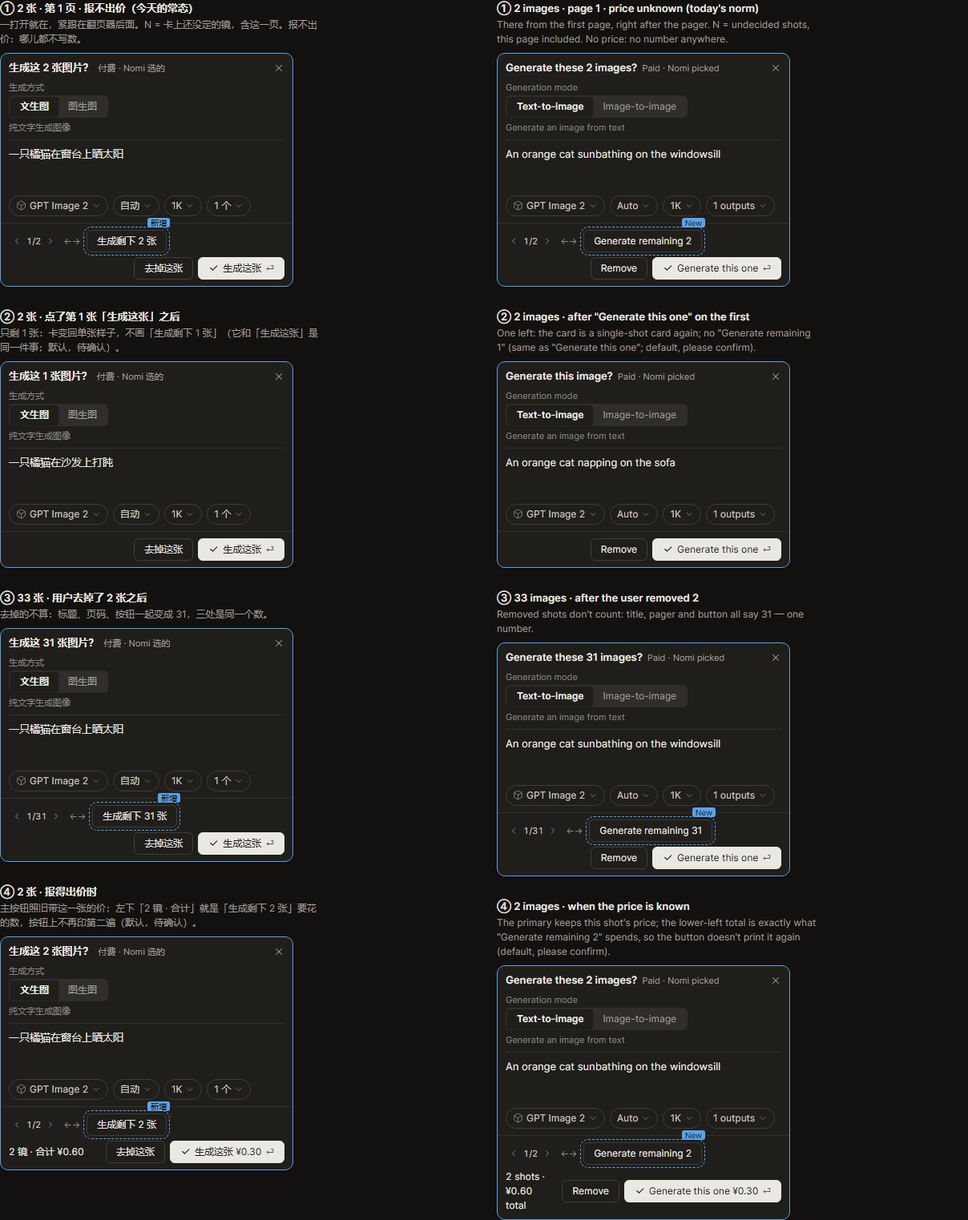
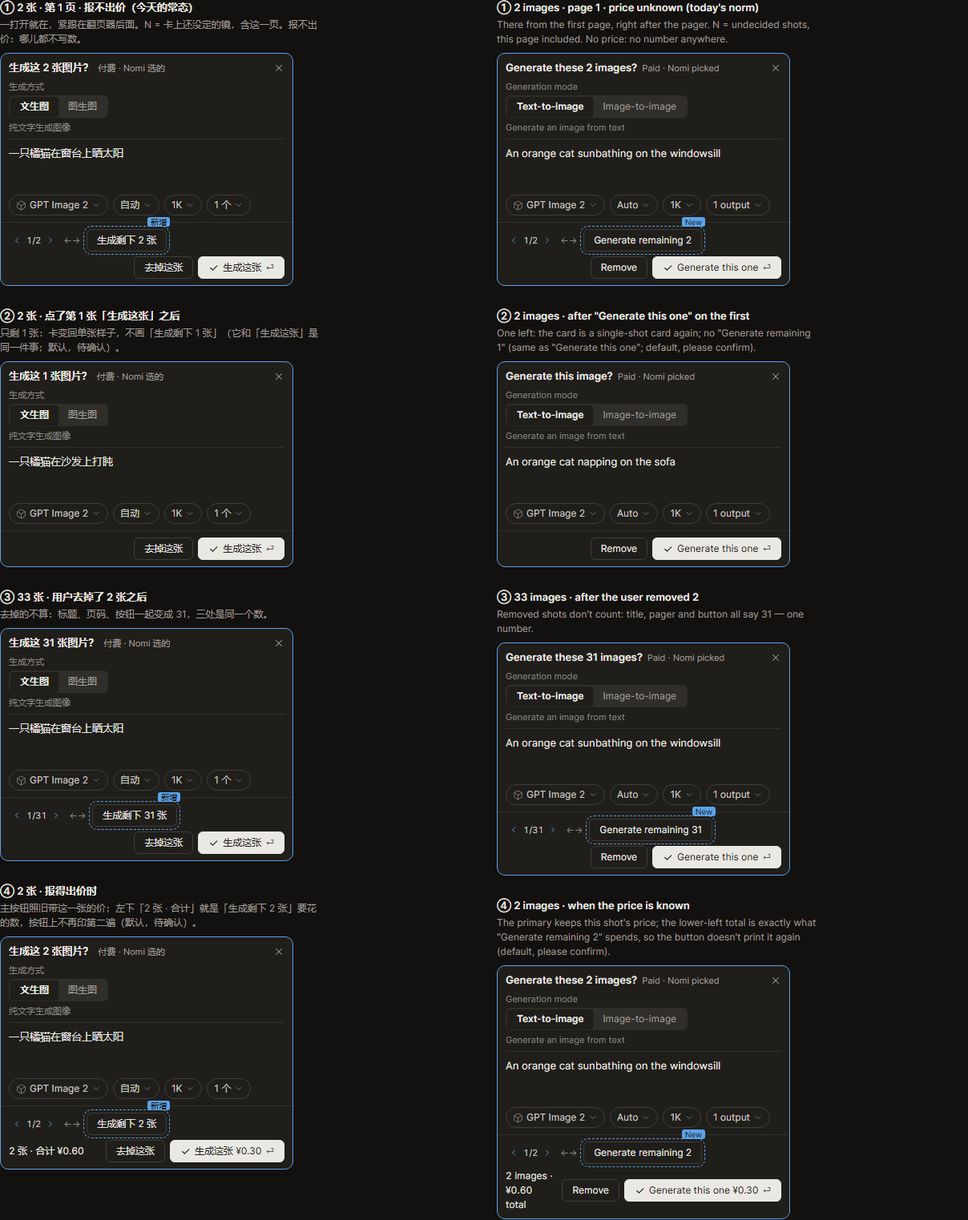
feat(paid card): "needs your go-ahead again" chip; neutral stop for old runs; total line uses the title's noun
- Canvas chip: consent_expired says "This shot hasn't started - it needs your go-ahead
  again." with Continue (the click is the confirmation); old runs stopped with the removed
  budget reason read as a neutral "Stopped - this shot hasn't started." with Continue.
  The budget copy and the "Raise budget" action are gone.
- Paid card total line: "2 images · ¥0.60 total" / "2 张 · 合计" (video: 段 / video shots),
  read from the same orderWording as the title and "Generate remaining" (user decision
  2026-10-01); mockup texts and previews updated.
- Walks: card close-ups are taken with the pointer off the buttons (the one-left primary
  was captured in its hover colour); the full-walk monitor recognises the new stop copy;
  the generate-remaining walk no longer builds its draft with an object literal the
  tool-args gate reads as a key.

diff --git a/docs/design/mockups/2026-10-01-paid-card-generate-remaining/index.html b/docs/design/mockups/2026-10-01-paid-card-generate-remaining/index.html
@@ -376,7 +376,7 @@ th { background: var(--nomi-ink-05); color: var(--nomi-ink); }
       </div>
     </footer>
   </section></figure>
-<figure class="board"><figcaption><b>④ 2 张 · 报得出价时</b><span>主按钮照旧带这一张的价；左下「2 镜 · 合计」就是「生成剩下 2 张」要花的数，按钮上不再印第二遍（默认，待确认）。</span></figcaption>
+<figure class="board"><figcaption><b>④ 2 张 · 报得出价时</b><span>主按钮照旧带这一张的价；左下「2 张 · 合计」就是「生成剩下 2 张」要花的数，按钮上不再印第二遍（默认，待确认）。</span></figcaption>
   <section class="card" lang="zh-CN">
     <div class="head">
       <span class="title" contenteditable="true">生成这 2 张图片？</span>
@@ -406,7 +406,7 @@ th { background: var(--nomi-ink-05); color: var(--nomi-ink); }
         <span class="new-wrap"><span class="new-tag">新增</span><button class="btn" type="button" contenteditable="true">生成剩下 2 张</button></span>
       </div>
       <div class="row">
-        <span class="lead" contenteditable="true">2 镜 · 合计 ¥0.60</span>
+        <span class="lead" contenteditable="true">2 张 · 合计 ¥0.60</span>
         <span class="grow"></span>
         <button class="btn" type="button" contenteditable="true">去掉这张</button>
         <button class="btn primary" type="button"><svg class="ti " width="13" height="13" viewBox="0 0 24 24" fill="none" stroke="currentColor" stroke-width="2" stroke-linecap="round" stroke-linejoin="round" aria-hidden="true"><path d="M5 12l5 5l10 -10"/></svg><span contenteditable="true">生成这张 ¥0.30</span><span class="enter">⏎</span></button>
@@ -430,7 +430,7 @@ th { background: var(--nomi-ink-05); color: var(--nomi-ink); }
         <span class="chip"><svg class="ti " width="13" height="13" viewBox="0 0 24 24" fill="none" stroke="currentColor" stroke-width="1.6" stroke-linecap="round" stroke-linejoin="round" aria-hidden="true"><path d="M21 16.008v-8.018a1.98 1.98 0 0 0 -1 -1.717l-7 -4.008a2.016 2.016 0 0 0 -2 0l-7 4.008c-.619 .355 -1 1.01 -1 1.718v8.018c0 .709 .381 1.363 1 1.717l7 4.008a2.016 2.016 0 0 0 2 0l7 -4.008c.619 -.355 1 -1.01 1 -1.718"/><path d="M12 22v-10"/><path d="M12 12l8.73 -5.04"/><path d="M3.27 6.96l8.73 5.04"/></svg><span contenteditable="true">GPT Image 2</span><svg class="ti " width="12" height="12" viewBox="0 0 24 24" fill="none" stroke="currentColor" stroke-width="1.6" stroke-linecap="round" stroke-linejoin="round" aria-hidden="true"><path d="M6 9l6 6l6 -6"/></svg></span>
         <span class="chip"><span contenteditable="true">Auto</span><svg class="ti " width="12" height="12" viewBox="0 0 24 24" fill="none" stroke="currentColor" stroke-width="1.6" stroke-linecap="round" stroke-linejoin="round" aria-hidden="true"><path d="M6 9l6 6l6 -6"/></svg></span>
         <span class="chip"><span contenteditable="true">1K</span><svg class="ti " width="12" height="12" viewBox="0 0 24 24" fill="none" stroke="currentColor" stroke-width="1.6" stroke-linecap="round" stroke-linejoin="round" aria-hidden="true"><path d="M6 9l6 6l6 -6"/></svg></span>
-        <span class="chip"><span contenteditable="true">1 outputs</span><svg class="ti " width="12" height="12" viewBox="0 0 24 24" fill="none" stroke="currentColor" stroke-width="1.6" stroke-linecap="round" stroke-linejoin="round" aria-hidden="true"><path d="M6 9l6 6l6 -6"/></svg></span>
+        <span class="chip"><span contenteditable="true">1 output</span><svg class="ti " width="12" height="12" viewBox="0 0 24 24" fill="none" stroke="currentColor" stroke-width="1.6" stroke-linecap="round" stroke-linejoin="round" aria-hidden="true"><path d="M6 9l6 6l6 -6"/></svg></span>
       </div>
     </div>
     <footer class="foot">
@@ -467,7 +467,7 @@ th { background: var(--nomi-ink-05); color: var(--nomi-ink); }
         <span class="chip"><svg class="ti " width="13" height="13" viewBox="0 0 24 24" fill="none" stroke="currentColor" stroke-width="1.6" stroke-linecap="round" stroke-linejoin="round" aria-hidden="true"><path d="M21 16.008v-8.018a1.98 1.98 0 0 0 -1 -1.717l-7 -4.008a2.016 2.016 0 0 0 -2 0l-7 4.008c-.619 .355 -1 1.01 -1 1.718v8.018c0 .709 .381 1.363 1 1.717l7 4.008a2.016 2.016 0 0 0 2 0l7 -4.008c.619 -.355 1 -1.01 1 -1.718"/><path d="M12 22v-10"/><path d="M12 12l8.73 -5.04"/><path d="M3.27 6.96l8.73 5.04"/></svg><span contenteditable="true">GPT Image 2</span><svg class="ti " width="12" height="12" viewBox="0 0 24 24" fill="none" stroke="currentColor" stroke-width="1.6" stroke-linecap="round" stroke-linejoin="round" aria-hidden="true"><path d="M6 9l6 6l6 -6"/></svg></span>
         <span class="chip"><span contenteditable="true">Auto</span><svg class="ti " width="12" height="12" viewBox="0 0 24 24" fill="none" stroke="currentColor" stroke-width="1.6" stroke-linecap="round" stroke-linejoin="round" aria-hidden="true"><path d="M6 9l6 6l6 -6"/></svg></span>
         <span class="chip"><span contenteditable="true">1K</span><svg class="ti " width="12" height="12" viewBox="0 0 24 24" fill="none" stroke="currentColor" stroke-width="1.6" stroke-linecap="round" stroke-linejoin="round" aria-hidden="true"><path d="M6 9l6 6l6 -6"/></svg></span>
-        <span class="chip"><span contenteditable="true">1 outputs</span><svg class="ti " width="12" height="12" viewBox="0 0 24 24" fill="none" stroke="currentColor" stroke-width="1.6" stroke-linecap="round" stroke-linejoin="round" aria-hidden="true"><path d="M6 9l6 6l6 -6"/></svg></span>
+        <span class="chip"><span contenteditable="true">1 output</span><svg class="ti " width="12" height="12" viewBox="0 0 24 24" fill="none" stroke="currentColor" stroke-width="1.6" stroke-linecap="round" stroke-linejoin="round" aria-hidden="true"><path d="M6 9l6 6l6 -6"/></svg></span>
       </div>
     </div>
     <footer class="foot">
@@ -497,7 +497,7 @@ th { background: var(--nomi-ink-05); color: var(--nomi-ink); }
         <span class="chip"><svg class="ti " width="13" height="13" viewBox="0 0 24 24" fill="none" stroke="currentColor" stroke-width="1.6" stroke-linecap="round" stroke-linejoin="round" aria-hidden="true"><path d="M21 16.008v-8.018a1.98 1.98 0 0 0 -1 -1.717l-7 -4.008a2.016 2.016 0 0 0 -2 0l-7 4.008c-.619 .355 -1 1.01 -1 1.718v8.018c0 .709 .381 1.363 1 1.717l7 4.008a2.016 2.016 0 0 0 2 0l7 -4.008c.619 -.355 1 -1.01 1 -1.718"/><path d="M12 22v-10"/><path d="M12 12l8.73 -5.04"/><path d="M3.27 6.96l8.73 5.04"/></svg><span contenteditable="true">GPT Image 2</span><svg class="ti " width="12" height="12" viewBox="0 0 24 24" fill="none" stroke="currentColor" stroke-width="1.6" stroke-linecap="round" stroke-linejoin="round" aria-hidden="true"><path d="M6 9l6 6l6 -6"/></svg></span>
         <span class="chip"><span contenteditable="true">Auto</span><svg class="ti " width="12" height="12" viewBox="0 0 24 24" fill="none" stroke="currentColor" stroke-width="1.6" stroke-linecap="round" stroke-linejoin="round" aria-hidden="true"><path d="M6 9l6 6l6 -6"/></svg></span>
         <span class="chip"><span contenteditable="true">1K</span><svg class="ti " width="12" height="12" viewBox="0 0 24 24" fill="none" stroke="currentColor" stroke-width="1.6" stroke-linecap="round" stroke-linejoin="round" aria-hidden="true"><path d="M6 9l6 6l6 -6"/></svg></span>
-        <span class="chip"><span contenteditable="true">1 outputs</span><svg class="ti " width="12" height="12" viewBox="0 0 24 24" fill="none" stroke="currentColor" stroke-width="1.6" stroke-linecap="round" stroke-linejoin="round" aria-hidden="true"><path d="M6 9l6 6l6 -6"/></svg></span>
+        <span class="chip"><span contenteditable="true">1 output</span><svg class="ti " width="12" height="12" viewBox="0 0 24 24" fill="none" stroke="currentColor" stroke-width="1.6" stroke-linecap="round" stroke-linejoin="round" aria-hidden="true"><path d="M6 9l6 6l6 -6"/></svg></span>
       </div>
     </div>
     <footer class="foot">
@@ -534,7 +534,7 @@ th { background: var(--nomi-ink-05); color: var(--nomi-ink); }
         <span class="chip"><svg class="ti " width="13" height="13" viewBox="0 0 24 24" fill="none" stroke="currentColor" stroke-width="1.6" stroke-linecap="round" stroke-linejoin="round" aria-hidden="true"><path d="M21 16.008v-8.018a1.98 1.98 0 0 0 -1 -1.717l-7 -4.008a2.016 2.016 0 0 0 -2 0l-7 4.008c-.619 .355 -1 1.01 -1 1.718v8.018c0 .709 .381 1.363 1 1.717l7 4.008a2.016 2.016 0 0 0 2 0l7 -4.008c.619 -.355 1 -1.01 1 -1.718"/><path d="M12 22v-10"/><path d="M12 12l8.73 -5.04"/><path d="M3.27 6.96l8.73 5.04"/></svg><span contenteditable="true">GPT Image 2</span><svg class="ti " width="12" height="12" viewBox="0 0 24 24" fill="none" stroke="currentColor" stroke-width="1.6" stroke-linecap="round" stroke-linejoin="round" aria-hidden="true"><path d="M6 9l6 6l6 -6"/></svg></span>
         <span class="chip"><span contenteditable="true">Auto</span><svg class="ti " width="12" height="12" viewBox="0 0 24 24" fill="none" stroke="currentColor" stroke-width="1.6" stroke-linecap="round" stroke-linejoin="round" aria-hidden="true"><path d="M6 9l6 6l6 -6"/></svg></span>
         <span class="chip"><span contenteditable="true">1K</span><svg class="ti " width="12" height="12" viewBox="0 0 24 24" fill="none" stroke="currentColor" stroke-width="1.6" stroke-linecap="round" stroke-linejoin="round" aria-hidden="true"><path d="M6 9l6 6l6 -6"/></svg></span>
-        <span class="chip"><span contenteditable="true">1 outputs</span><svg class="ti " width="12" height="12" viewBox="0 0 24 24" fill="none" stroke="currentColor" stroke-width="1.6" stroke-linecap="round" stroke-linejoin="round" aria-hidden="true"><path d="M6 9l6 6l6 -6"/></svg></span>
+        <span class="chip"><span contenteditable="true">1 output</span><svg class="ti " width="12" height="12" viewBox="0 0 24 24" fill="none" stroke="currentColor" stroke-width="1.6" stroke-linecap="round" stroke-linejoin="round" aria-hidden="true"><path d="M6 9l6 6l6 -6"/></svg></span>
       </div>
     </div>
     <footer class="foot">
@@ -547,7 +547,7 @@ th { background: var(--nomi-ink-05); color: var(--nomi-ink); }
         <span class="new-wrap"><span class="new-tag">New</span><button class="btn" type="button" contenteditable="true">Generate remaining 2</button></span>
       </div>
       <div class="row">
-        <span class="lead" contenteditable="true">2 shots · ¥0.60 total</span>
+        <span class="lead" contenteditable="true">2 images · ¥0.60 total</span>
         <span class="grow"></span>
         <button class="btn" type="button" contenteditable="true">Remove</button>
         <button class="btn primary" type="button"><svg class="ti " width="13" height="13" viewBox="0 0 24 24" fill="none" stroke="currentColor" stroke-width="2" stroke-linecap="round" stroke-linejoin="round" aria-hidden="true"><path d="M5 12l5 5l10 -10"/></svg><span contenteditable="true">Generate this one ¥0.30</span><span class="enter">⏎</span></button>
@@ -576,7 +576,7 @@ th { background: var(--nomi-ink-05); color: var(--nomi-ink); }
   <div class="table-wrap"><table>
     <tr><th>问题</th><th>默认（样张就是这么画的）</th><th>另一种</th></tr>
     <tr><td>只剩 1 张时，还显示「生成剩下 1 张」吗？</td><td>不显示：它和「生成这张」是同一件事，两颗按钮做一件事让人犹豫该点哪颗</td><td>照样显示，位置不跳</td></tr>
-    <tr><td>报得出价时，「生成剩下 N 张」上带不带合计？</td><td>不带：左下「N 镜 · 合计」就是这几张的合计，同一个数印两处，改参数时总有一处先漂</td><td>带上合计，左下那句删掉</td></tr>
+    <tr><td>报得出价时，「生成剩下 N 张」上带不带合计？</td><td>不带：左下「N 张 · 合计」就是这几张的合计，同一个数印两处，改参数时总有一处先漂</td><td>带上合计，左下那句删掉</td></tr>
     <tr><td>一张卡里图和视频都有时，按钮说张还是段？</td><td>跟标题同一条规则：有视频就说「段」（标题今天也这么说）</td><td>标题和按钮都改说「镜」（「生成这 3 镜？」「生成剩下 3 镜」）</td></tr>
   </table></div>
 

diff --git a/src/workbench/generationCanvas/nodes/ProductionShotPlaceholder.tsx b/src/workbench/generationCanvas/nodes/ProductionShotPlaceholder.tsx
@@ -9,10 +9,12 @@
 // 排队中 / 已停没有普通生成的对应物，所以留在这里；判定读中立层 `deriveProductionShotState`（与主进程投影
 // 同一个函数，两端不会一个说在生成、一个说已停）。节点已有结果或自己在跑（普通生成 / 制作投影的生成中）时不画。
 //
-// 状态色一律根层 token（#128 后）：已停 = --nomi-warning（非 danger，预算/急停是可继续的中止，不是错误）。
+// 状态色一律根层 token（#128 后）：已停 = --nomi-warning（非 danger，等你再确认 / 急停是可继续的中止，不是错误）。
 //
 // 已停时说哪句话、给不给「继续」按钮，只看 Run 在停下那一刻记下的原因（stoppedReason，2026-09-29）：以前一律从
-// needs_attention 猜成「预算已用完 · 提额续拍」，今天没有价格，点进去额度全是 0。
+// needs_attention 猜成预算用完，今天没有价格，点进去额度全是 0。2026-10-01 起停下原因里没有「预算」了：
+// 上一版记成预算的旧数据读出来是中性的「已停」（unknown）；批过的镜离用户上一次点头太久、没人续，停在
+// consent_expired，说「这镜还没开拍，需要你再确认一次」，那颗「继续」就是确认（付费卡① 第 13 条）。
 import React, { type JSX } from 'react'
 import { useTranslation } from 'react-i18next'
 import { IconClock, IconPlayerPause } from '@tabler/icons-react'
@@ -28,14 +30,14 @@ import type { TranslationKey } from '../../../i18n/translationKey'
 type StoppedCopy = {
   message: TranslationKey
   /** 这一种停法下「继续」有没有用：没用就不摆按钮（选中节点单独生成 / 去任务面板，文案里说清）。 */
-  action: { label: TranslationKey; kind: 'resume-budget' | 'resume-manual' } | null
+  action: { label: TranslationKey; kind: 'resume-consent' | 'resume-manual' } | null
 }
 
 /** 停下的原因 → 这一镜上说的话与能做的事。穷尽：新长一个原因而这里没表态，编译就过不去。 */
 function stoppedCopyOf(reason: Extract<ProductionShotState, { phase: 'stopped' }>['stoppedReason']): StoppedCopy {
   switch (reason) {
-    case 'budget':
-      return { message: 'generationCommon.production.canvasLanding.stoppedBudget', action: { label: 'generationCommon.production.canvasLanding.raiseBudget', kind: 'resume-budget' } }
+    case 'consent_expired':
+      return { message: 'generationCommon.production.canvasLanding.stoppedConsentExpired', action: { label: 'generationCommon.production.canvasLanding.resume', kind: 'resume-consent' } }
     case 'user_paused':
       return { message: 'generationCommon.production.canvasLanding.stoppedManual', action: { label: 'generationCommon.production.canvasLanding.continueRemaining', kind: 'resume-manual' } }
     case 'failed':
@@ -45,7 +47,7 @@ function stoppedCopyOf(reason: Extract<ProductionShotState, { phase: 'stopped' }
     case 'user_cancelled':
       return { message: 'generationCommon.production.canvasLanding.stoppedCancelled', action: null }
     case 'unknown':
-      return { message: 'generationCommon.production.canvasLanding.stoppedUnknown', action: { label: 'generationCommon.production.canvasLanding.continueRemaining', kind: 'resume-manual' } }
+      return { message: 'generationCommon.production.canvasLanding.stoppedUnknown', action: { label: 'generationCommon.production.canvasLanding.resume', kind: 'resume-manual' } }
     default:
       return ((value: never) => value)(reason)
   }
@@ -62,7 +64,7 @@ export function ProductionShotPlaceholder({ node, reportFeedback }: { reportFeed
   })
   const projectId = useProductionCanvasLandingStore((store) => (runId && store.runs[runId] ? store.projectId : null))
   const [busy, setBusy] = React.useState(false)
-  // 续预算还是急停后接着拍，由主进程照 Run 记下的原因决定——渲染层不替它选。
+  // 这一下点击续哪几镜的同意、怎么接着拍，由主进程定——渲染层只说「继续」。
   const runResume = React.useCallback(() => {
     if (!projectId || !runId || busy) return
     setBusy(true)
@@ -126,7 +128,7 @@ export function ProductionShotPlaceholder({ node, reportFeedback }: { reportFeed
     >
       <IconPlayerPause size={18} stroke={1.6} className="text-nomi-warning" aria-hidden="true" />
       <span className="text-caption leading-snug text-nomi-ink-80" data-shot-stop-reason={state.stoppedReason}>{t(copy.message)}</span>
-      {/* P4 S6：提额续拍 / 急停继续接活。data-* 用 active 值供走查；busy 期间禁重复点。 */}
+      {/* P4 S6：再确认一次 / 急停后接着拍。data-* 用 active 值供走查；busy 期间禁重复点。 */}
       {copy.action ? (
         <button
           type="button"

diff --git a/src/workbench/ai/v4/agentPanelSpendCard.ts b/src/workbench/ai/v4/agentPanelSpendCard.ts
@@ -29,6 +29,16 @@ function isVideoOrder(shots: readonly PendingSpendShot[]): boolean {
   return shots.some((shot) => shot.kind === 'video')
 }
 
+/**
+ * 这一叠说「图片 · 张」还是「视频 · 段」：标题、「生成剩下 N 张 / 段」、翻页行右端的「N 张 · 合计」**只读这一个**
+ * （有视频就说视频，2026-10-01 用户拍板合计行也跟它走）。三处各自判一次，迟早有一处先漂。
+ */
+function orderWording(shots: readonly PendingSpendShot[]) {
+  return isVideoOrder(shots)
+    ? { title: 'agentPanelV4.spendParamsTitle', remaining: 'agentPanelV4.spendConfirmRemainingVideo', totalLead: 'agentPanelV4.spendTotalLeadVideo' } as const
+    : { title: 'agentPanelV4.spendParamsTitleImage', remaining: 'agentPanelV4.spendConfirmRemainingImage', totalLead: 'agentPanelV4.spendTotalLeadImage' } as const
+}
+
 /** 每一镜都有价、且都是同一个数 = 「整齐」。不整齐时算式退成「逐镜不同」。 */
 function isUniform(shots: readonly PendingSpendShot[]): boolean {
   const first = shots[0]?.price
@@ -74,7 +84,7 @@ export function projectSpendCard(
   const price: NonNullable<InterventionData['price']> = {
     // 正文下那一行只在它**说得出页脚说不出的事**时才印（由数据 derive，不写死）：
     // · 单镜：标题已经写着「生成这 1 段视频？」，再印「1 镜」是把同一件事说两遍；
-    // · 多镜且整齐、报得出合计：页脚左下已经是「N 镜 · 合计 ¥X」，再印「N 镜」同样是重复；
+    // · 多镜且整齐、报得出合计：翻页行右端已经是「N 张 / 段 · 合计 ¥X」，再印「N 镜」同样是重复；
     // · 多镜但**逐镜不同**：印「N 镜 · 逐镜不同」并带逐镜折叠口——这是页脚说不出的；
     // · 多镜但**报不出合计**：什么都不印。以前这里补一句「N 镜」，因为页脚那句「价格未知…」没有镜数；
     //   那句随「仍要生成」删了，标题和「生成剩下 N 张」都已经说了几张，再印一行就是第三遍（2026-10-01 样张没有这一行）。
@@ -100,10 +110,11 @@ export function projectSpendCard(
         }
       : {}),
   }
+  const wording = orderWording(shots)
   return Object.freeze({
     kind: 'spend' as const,
     // 标题里**不印金额**：金额随参数变，两个地方印同一个数就一定有一个先漂。
-    title: t(isVideoOrder(shots) ? 'agentPanelV4.spendParamsTitle' : 'agentPanelV4.spendParamsTitleImage', { count: shots.length }),
+    title: t(wording.title, { count: shots.length }),
     badge,
     ...(shots.length > 1
       ? {
@@ -115,16 +126,17 @@ export function projectSpendCard(
         }
       : {}),
     price,
-    // 「N 镜 · 合计 ¥X」只在多镜且报得出合计时印（住在翻页那一行的右端）；报不出价时什么都不印——
+    // 「N 张 · 合计 ¥X」只在多镜且报得出合计时印（住在翻页那一行的右端）；报不出价时什么都不印——
     // 「价格未知 · 以供应商账单为准」这一句随「仍要生成」一起删了（第 7 条：今天不真的钱话不说，2026-09-30）。
+    // 单位跟标题同一条规则（2026-10-01 用户拍板：图片说张、视频说段，英文与标题同词）。
     ...(total !== undefined && shots.length > 1
-      ? { totalLead: t('agentPanelV4.spendTotalLeadBatch', { count: shots.length, amount: money(total) }) }
+      ? { totalLead: t(wording.totalLead, { count: shots.length, amount: money(total) }) }
       : {}),
     // 整叠的动作「生成剩下 N 张 / 段」（2026-10-01 用户拍板）：N 就是卡上还没决定的镜（= 标题那个数，去掉的不算），
     // 张 / 段跟标题同一条规则（有视频就说段）；报得出价也不带合计（翻页行右端已经印着这个数）。
     // 只剩 1 张时它和「生成这张」是同一件事，不画。
     ...(shots.length > 1
-      ? { batchLabel: t(isVideoOrder(shots) ? 'agentPanelV4.spendConfirmRemainingVideo' : 'agentPanelV4.spendConfirmRemainingImage', { count: shots.length }) }
+      ? { batchLabel: t(wording.remaining, { count: shots.length }) }
       : {}),
     // 主按钮只生成这一页这一镜（第 1 条），次动作「去掉这张 / 这段」只让这一镜不生成（第 2 条）。
     // 这一镜报得出价时按钮带上这一下花多少（第 7 条：可以带，但没有任何一条路径依赖它）；报不出就只说动作。

diff --git a/src/i18n/locales/generationCommon.ts b/src/i18n/locales/generationCommon.ts
@@ -1451,15 +1451,16 @@ export const zhGenerationCommon = {
       removedNotGenerated: '已去掉，不生成',
       queued: '排队中',
       queuedNth: '排队中 · 第 {{index}}/{{total}}',
-      stoppedBudget: '预算已用完，这镜还没开拍。提额后可继续拍剩下的。',
       stoppedManual: '已停止剩余镜头。想继续可从这里接着拍。',
       // 已停的另外几种真实原因（2026-09-29：以前一律说成「预算已用完」）。没有能按的「继续」时，文案里说清能做什么。
       stoppedAfterFailure: '前面有镜头没生成成功，这一镜还没开拍。选中它可以单独生成，或在任务面板取消这次制作。',
       stoppedForRecovery: 'Nomi 重启后要先核对之前在跑的镜头，这一镜还没开拍。打开任务面板核对。',
       stoppedCancelled: '这次制作已取消，这一镜没有开拍。选中它可以单独生成。',
-      // 上一版留下的、没记停下原因的制作：不猜原因，只说停了。
-      stoppedUnknown: '这次制作停下了，这一镜还没开拍。想继续可从这里接着拍。',
-      raiseBudget: '提额续拍',
+      // 上一版留下的、没记停下原因（或记着这一版已经没有的原因）的制作：不猜原因，只说停了。
+      stoppedUnknown: '已停，这镜还没开拍。',
+      // 批过的镜离你上一次点头太久、没人替你续（付费卡① 第 13 条）：点「继续」那一下就是确认。
+      stoppedConsentExpired: '这镜还没开拍，需要你再确认一次。',
+      resume: '继续',
       continueRemaining: '继续剩余',
       // 用户删掉占位节点、但这件事没能记进制作流程：被删的那一镜可能照样生成并计费。动作 = 打开任务面板（暂停 / 取消）。
       detachFailed: '删掉的镜头没能从制作流程里撤下，它可能照样生成并计费。打开任务面板可以暂停或取消这次制作。',
@@ -2986,16 +2987,19 @@ export const enGenerationCommon = {
       removedNotGenerated: 'Removed — not generated',
       queued: 'Queued',
       queuedNth: 'Queued · {{index}}/{{total}}',
-      stoppedBudget: 'Budget ran out before this shot. Raise it to keep filming the rest.',
       stoppedManual: 'Remaining shots stopped. Continue filming from here.',
       // The other real reasons a run stops (2026-09-29: all of them used to read as "budget ran out"). Without a working
       // "continue", the sentence itself says what the user can do.
       stoppedAfterFailure: 'An earlier shot failed, so this one hasn\'t started. Select it to generate it on its own, or cancel the run in Tasks.',
       stoppedForRecovery: 'After restarting, Nomi has to check the shots that were running, so this one hasn\'t started. Open Tasks to check them.',
       stoppedCancelled: 'This run was cancelled before this shot started. Select it to generate it on its own.',
-      // A run from the previous version that never recorded why it stopped: say it stopped, never guess why.
-      stoppedUnknown: 'This run stopped before this shot started. Continue filming from here.',
-      raiseBudget: 'Raise budget',
+      // A run from an older version that never recorded why it stopped (or recorded a reason this version no longer has):
+      // say it stopped, never guess why.
+      stoppedUnknown: 'Stopped — this shot hasn\'t started.',
+      // The approved shots waited too long after your last go-ahead and nobody renewed it (paid card rule 13): the
+      // "Continue" click is the confirmation.
+      stoppedConsentExpired: 'This shot hasn\'t started — it needs your go-ahead again.',
+      resume: 'Continue',
       continueRemaining: 'Continue remaining',
       // The user deleted a placeholder but the production run never recorded it: that shot may still generate and bill.
       detachFailed: 'The deleted shot could not be withdrawn from the production run, so it may still generate and bill. Open Tasks to pause or cancel the run.',

diff --git a/src/workbench/ai/v4/agentPanelSpendCard.test.ts b/src/workbench/ai/v4/agentPanelSpendCard.test.ts
@@ -94,7 +94,7 @@ describe('付费卡投影', () => {
     expect(data.confirmLabel).toBe('agentPanelV4.spendConfirmThisImagePriced(amount=¥0.30)')
     // 页脚左下印的是**整单合计**，带镜数——逐镜确认时用户始终看得见整单要花多少。
     // 两格说的是两件事，所以这里两个数不一样才是对的（0.30 vs 0.80）。
-    expect(data.totalLead).toBe('agentPanelV4.spendTotalLeadBatch(count=2,amount=¥0.80)')
+    expect(data.totalLead).toBe('agentPanelV4.spendTotalLeadImage(count=2,amount=¥0.80)')
   })
 
   it('没有「全部」：翻页器旁不再有范围切换，每一页都只有「生成这张 / 这段」和「去掉这张 / 这段」', () => {
@@ -194,17 +194,20 @@ describe('「生成剩下 N 张 / 段」（2026-10-01 用户拍板）', () => {
     expect(data.batchLabel).toBeUndefined()
   })
 
-  it('张 / 段跟标题同一条规则：有视频就说段', () => {
+  it('张 / 段跟标题同一条规则：有视频就说段——标题、「生成剩下」、合计行三处读同一个（2026-10-01 用户拍板合计行也跟它走）', () => {
     const data = projectSpendCard(pending([shot(1, null), shot(2, null, 'kling', 'video')]), { page: 0 }, t, { locale: 'zh-CN' })!
     expect(data.title).toContain('spendParamsTitle(')
     expect(data.batchLabel).toBe('agentPanelV4.spendConfirmRemainingVideo(count=2)')
+    const priced = projectSpendCard(pending([shot(1, 0.3), shot(2, 0.5, 'kling', 'video')]), { page: 0 }, t, { locale: 'zh-CN' })!
+    expect(priced.title).toContain('spendParamsTitle(')
+    expect(priced.totalLead).toBe('agentPanelV4.spendTotalLeadVideo(count=2,amount=¥0.80)')
   })
 
   it('报得出价时也不带合计：这一叠的合计已经印在翻页那一行（同一个数不说两遍）', () => {
     const data = projectSpendCard(pending([shot(1, 0.3), shot(2, 0.3)]), { page: 0 }, t, { locale: 'zh-CN' })!
     expect(data.batchLabel).toBe('agentPanelV4.spendConfirmRemainingImage(count=2)')
     expect(data.batchLabel).not.toContain('¥')
-    expect(data.totalLead).toBe('agentPanelV4.spendTotalLeadBatch(count=2,amount=¥0.60)')
+    expect(data.totalLead).toBe('agentPanelV4.spendTotalLeadImage(count=2,amount=¥0.60)')
   })
 
   it('报不出价时哪儿都不写数，也没有任何价格未知、预算之类的话', () => {
@@ -219,7 +222,7 @@ describe('「N 镜」汇总只在多镜时出现', () => {
     const data = projectSpendCard(pending([shot(1, 0.3)]), { page: 0 }, t, { locale: 'zh-CN' })!
     expect(data.price?.breakdown).toBe('')
   })
-  it('多镜且整齐：页脚左下已经是「N 镜 · 合计」，正文下不再重复一行「N 镜」', () => {
+  it('多镜且整齐：翻页行右端已经是「N 张 / 段 · 合计」，正文下不再重复一行「N 镜」', () => {
     const data = projectSpendCard(pending([shot(1, 0.3), shot(2, 0.3)]), { page: 0 }, t, { locale: 'zh-CN' })!
     expect(data.price?.breakdown).toBe('')
     expect(data.totalLead).toContain('count=2')
@@ -238,7 +241,7 @@ describe('页脚左下只印主按钮说不出的那件事', () => {
     expect(data.totalLead).toBeUndefined()
     expect(data.price?.total).toContain('¥0.30')
   })
-  it('多镜且报得出合计：左下「N 镜 · 合计」，主按钮只说这一镜（带这一镜的价）', () => {
+  it('多镜且报得出合计：翻页行右端「N 张 · 合计」，主按钮只说这一镜（带这一镜的价）', () => {
     const each = projectSpendCard(pending([shot(1, 0.5), shot(2, 0.3)]), { page: 1 }, t, { locale: 'zh-CN' })!
     expect(each.totalLead).toContain('count=2')
     expect(each.totalLead).toContain('¥0.80')

diff --git a/src/i18n/locales/agentPanelV4.ts b/src/i18n/locales/agentPanelV4.ts
@@ -446,7 +446,11 @@ export const zhAgentPanelV4 = {
   spendParamsUnavailable: '暂时算不出价格',
   spendParamsPerItem: '逐镜 · {{count}} 镜',
   spendParamsShot: '镜头 {{number}}',
-  spendTotalLeadBatch: '{{count}} 镜 · 合计 {{amount}}',
+  /** 翻页那一行右端的合计（多镜且报得出价时）。单位跟标题同一条规则：图片说张、视频说段（2026-10-01 用户拍板）。 */
+  spendTotalLeadImage_one: '{{count}} 张 · 合计 {{amount}}',
+  spendTotalLeadImage_other: '{{count}} 张 · 合计 {{amount}}',
+  spendTotalLeadVideo_one: '{{count}} 段 · 合计 {{amount}}',
+  spendTotalLeadVideo_other: '{{count}} 段 · 合计 {{amount}}',
   /** 主按钮只生成这一页这一镜（2026-09-30 付费卡逐镜）：图片说「这张」，视频说「这段」。 */
   spendConfirmThisImage: '生成这张',
   spendConfirmThisVideo: '生成这段',
@@ -907,7 +911,10 @@ export const enAgentPanelV4 = {
   spendParamsUnavailable: 'Price unavailable right now',
   spendParamsPerItem: 'Per shot ({{count}})',
   spendParamsShot: 'Shot {{number}}',
-  spendTotalLeadBatch: '{{count}} shots · {{amount}} total',
+  spendTotalLeadImage_one: '{{count}} image · {{amount}} total',
+  spendTotalLeadImage_other: '{{count}} images · {{amount}} total',
+  spendTotalLeadVideo_one: '{{count}} video shot · {{amount}} total',
+  spendTotalLeadVideo_other: '{{count}} video shots · {{amount}} total',
   spendConfirmThisImage: 'Generate this one',
   spendConfirmThisVideo: 'Generate this one',
   spendConfirmThisImagePriced: 'Generate this one {{amount}}',

diff --git a/src/workbench/production/productionShotActions.test.ts b/src/workbench/production/productionShotActions.test.ts
@@ -26,11 +26,11 @@ describe('production action feedback ownership', () => {
     expect(present.mock.calls).toEqual([['']])
     expect(notificationsStore.getState().notifications).toHaveLength(0)
   })
-  it.each(['resumed', 'resume_declined'] as const)('keeps resume %s silent and never tells the main process why the run stopped', async (code) => {
+  it.each(['resumed'] as const)('keeps resume %s silent and never tells the main process why the run stopped', async (code) => {
     api.resumeBatch.mockResolvedValue({ ok: code === 'resumed', code })
     const present = vi.fn()
     await resumeProductionBatch('project', 'run', present)
-    // 续额度还是接着拍由主进程照 Run 记下的停下原因定：渲染层只说「继续」。
+    // 这一下点击续哪几镜的同意、怎么接着拍由主进程定：渲染层只说「继续」。
     expect(api.resumeBatch).toHaveBeenCalledWith('project', 'run')
     expect(present.mock.calls).toEqual([['']])
   })

diff --git a/src/workbench/ai/v4/AgentPanelV4Cards.tsx b/src/workbench/ai/v4/AgentPanelV4Cards.tsx
@@ -356,7 +356,7 @@ export function V4Intervention({
   const slotFooter = hasActions ? (
     <>
         {/* ── 翻页那一行 = 「这一叠」：第几页 + 一共多少（2026-10-01 用户看样张后拍板）──
-            翻页器本身一个像素不动（提问卡也用它）；报得出价时右端印这一叠的合计「N 镜 · 合计 ¥X」。
+            翻页器本身一个像素不动（提问卡也用它）；报得出价时右端印这一叠的合计「N 张 / 段 · 合计 ¥X」（单位跟标题同一条规则）。
             单独占一行、压在动作行正上方：挤进动作行会让 390px 的卡横向溢出（实测 350px 可用宽放不下）。 */}
         {(pager || data.totalLead) && !rejecting && data.kind !== 'reject-reason' ? (
           <V4Row as="div" data-v4-block="pager-row">

diff --git a/src/devlab/designLab/v4/agentPanelV4LabKit.tsx b/src/devlab/designLab/v4/agentPanelV4LabKit.tsx
@@ -278,7 +278,8 @@ function buildFixtures(t: TFunction) {
       title: t('agentPanelV4.slotSpendTitle'),
       badge: t('agentPanelV4.slotSpendBadge'),
       pager: { index: 0, total: 4, keyHint: t('agentPanelV4.pagerKeyHint') },
-      totalLead: t('agentPanelV4.spendTotalLeadBatch', { count: 4, amount: '¥1.20' }),
+      // 单位跟标题同一条规则（这一叠是视频，说「段」；2026-10-01 用户拍板）。
+      totalLead: t('agentPanelV4.spendTotalLeadVideo', { count: 4, amount: '¥1.20' }),
       alternateLabel: t('agentPanelV4.spendRemoveThisVideo'),
       batchLabel: t('agentPanelV4.spendConfirmRemainingVideo', { count: 4 }),
       params: ['Kling O1', '4 × 3s', 'std', '¥1.20'],

diff --git a/src/workbench/ai/v4/agentPanelV4Types.ts b/src/workbench/ai/v4/agentPanelV4Types.ts
@@ -158,7 +158,7 @@ export type InterventionData = Readonly<{
   summary?: string
   scope?: string
   /**
-   * 这一叠还没决定的镜一共要花多少（「2 镜 · 合计 ¥0.60」），只在多镜且报得出价时有。
+   * 这一叠还没决定的镜一共要花多少（「2 张 · 合计 ¥0.60」，单位跟标题同一条规则），只在多镜且报得出价时有。
    *
    * 住在**翻页那一行的右端**（2026-10-01 用户看样张后拍板）：那一行说的是「这一叠」——第几页、一共多少；
    * 动作行只放动作。为什么不复用 `price.total`：`price` 那一格是**算式**（怎么算出来的、逐镜多少），

diff --git a/src/devlab/designLab/v4/states/07-spend-params.tsx b/src/devlab/designLab/v4/states/07-spend-params.tsx
@@ -368,7 +368,7 @@ export const V4_SPEND_PARAMS_STATES: readonly LabState[] = [
   },
   {
     id: 'v4-panel-spend-batch',
-    name: '⑤ 多镜付费卡在真面板里（逐镜翻页 + 左下「N 镜 · 合计」）',
+    name: '⑤ 多镜付费卡在真面板里（逐镜翻页 + 翻页行右端「N 张 · 合计」）',
     source: '2026-09-22 卡族换壳收尾：多镜批量卡正文沿用现有形态，只换外壳与页脚',
     coverage: 'component-only',
     span: 2,

diff --git a/docs/design/nomi-design-system.md b/docs/design/nomi-design-system.md
@@ -103,7 +103,7 @@ Script → Generate → Edit → Preview → Export
 
 ## 行布局：附属信息跟随内容流
 
-一行里的耗时、状态、展开箭头和次级动作紧跟说明文字，用 `gap-1.5` 小间距排列；只有主动作（确认/发送）和危险动作允许贴右边缘。例外一处（2026-10-01 用户看付费卡样张后拍板）：付费卡翻页那一行的合计「N 镜 · 合计 ¥X」贴右端——那一行说的是「这一叠」，左边第几页、右边一共多少，合计是这一行的结论，不是跟在说明后面的附属。Agent 面板统一复用 `V4Row`，不在消费者另写 `ml-auto` / `justify-between` 或给标签加伸展来推远附属。用户气泡的整体靠右不属于附属行，使用 `self-end` 保持对话布局。`check:tokens` 对 AI 目录行尾类硬零，其余生产路径按文件登记存量只减不增。
+一行里的耗时、状态、展开箭头和次级动作紧跟说明文字，用 `gap-1.5` 小间距排列；只有主动作（确认/发送）和危险动作允许贴右边缘。例外一处（2026-10-01 用户看付费卡样张后拍板）：付费卡翻页那一行的合计「N 张 · 合计 ¥X」（视频「N 段」，单位跟标题同一条规则）贴右端——那一行说的是「这一叠」，左边第几页、右边一共多少，合计是这一行的结论，不是跟在说明后面的附属。Agent 面板统一复用 `V4Row`，不在消费者另写 `ml-auto` / `justify-between` 或给标签加伸展来推远附属。用户气泡的整体靠右不属于附属行，使用 `self-end` 保持对话布局。`check:tokens` 对 AI 目录行尾类硬零，其余生产路径按文件登记存量只减不增。
 
 ## 1.5 控件层级规则（强制 · 画图前必过）
 
